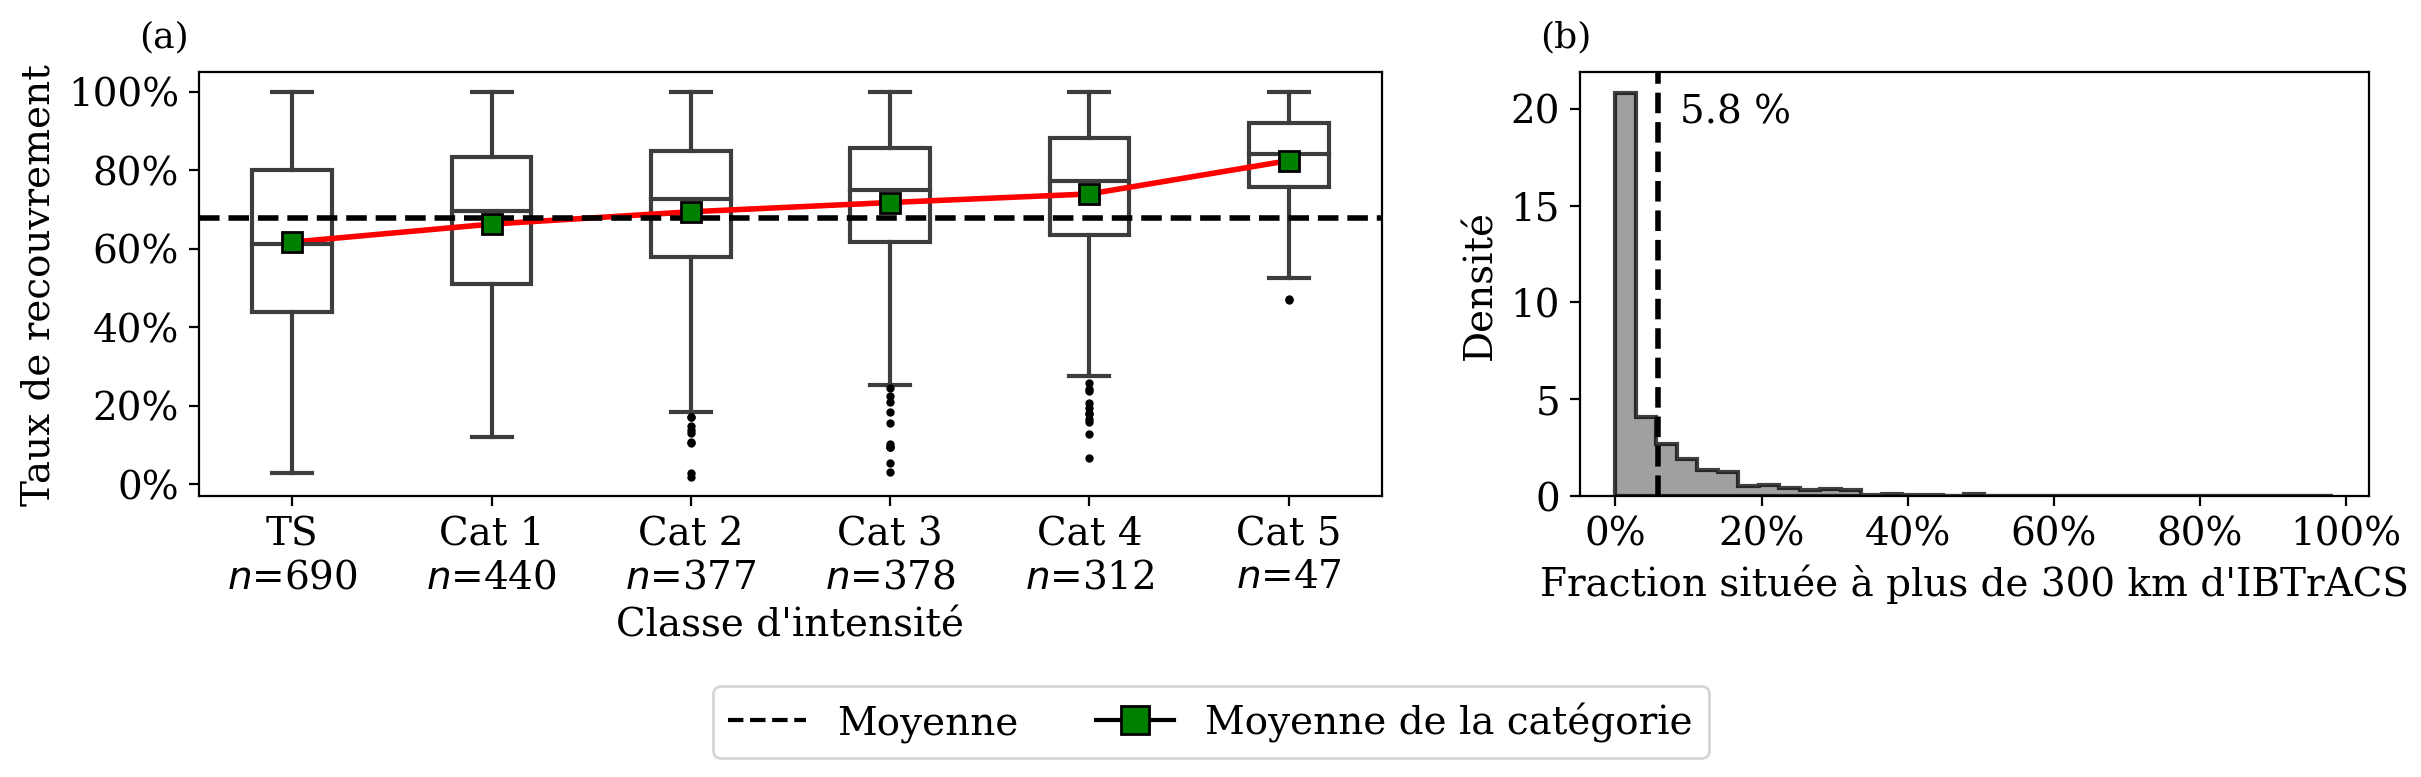
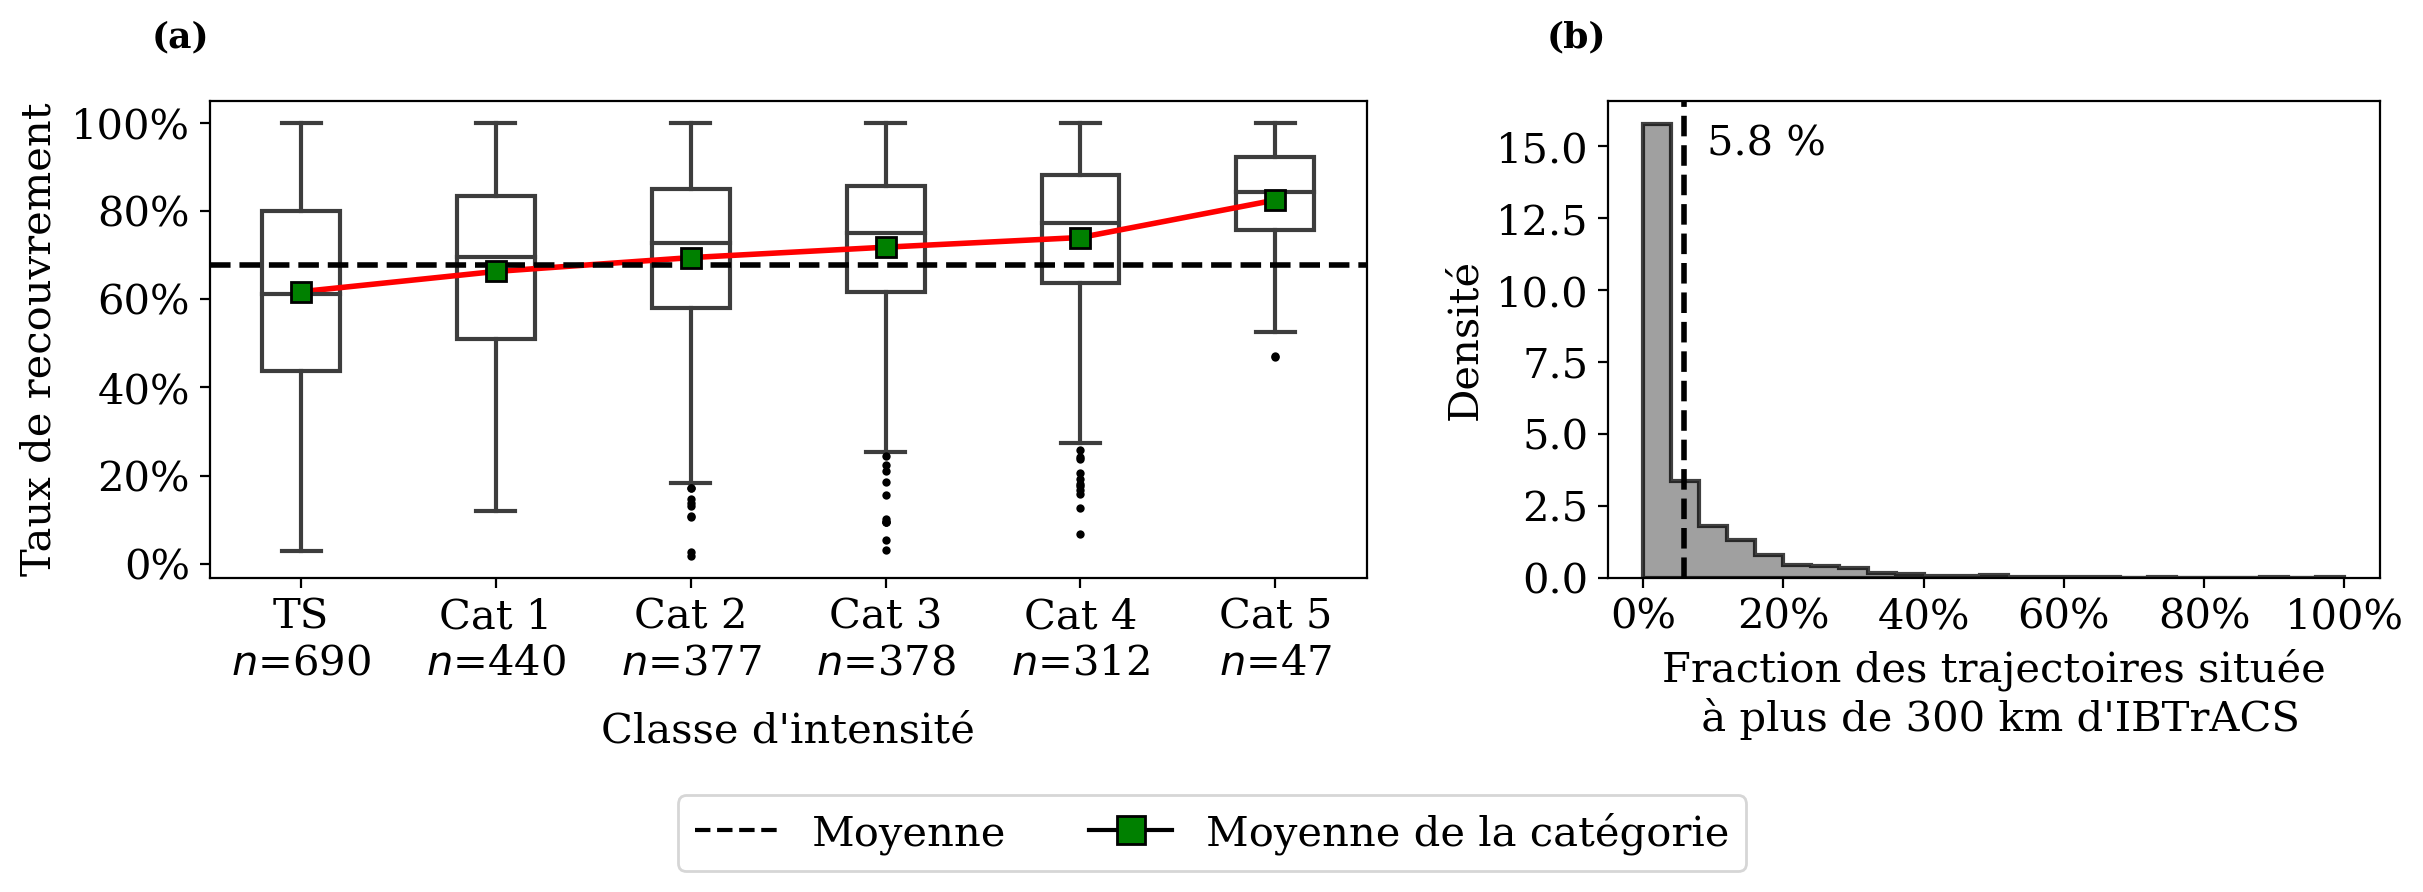
Avancement rédaction similarité

diff --git a/Chapitres/chapitre2.tex b/Chapitres/chapitre2.tex
@@ -147,34 +147,44 @@ trajectoires détectées dans la réanalyse et celles issues des observations.
 \begin{figure}[tb]
     \centering
     \includegraphics[width=\textwidth]{coverage_ratio_and_missed.png}
-    \caption{(a) Distributions des taux de recouvrement des trajectoires appariées entre ERA5 / IBTrACS pour chaque classe d'intensité des TC observés. (b)
-    Distribution de la fraction de points détectés situés à plus de \km{300} d'IBTrACS parmi les trajectoires appariés.}
+    \caption{\textbf{(a)} Distributions des taux de recouvrement des trajectoires appariées entre ERA5 / IBTrACS pour chaque classe d'intensité des TC observés.
+    \textbf{(b)} Histogramme de la fraction de points détectés situés à plus de \km{300} d'IBTrACS parmi les trajectoires appariés.}
     \label{fig:coverage_ratio}
 \end{figure}
 
-Dans cette section, trois métriques de similarité des trajectoires sont définies et comparées sur le jeu de données composé des trajectoires détectées dans la
-réanalyse ERA5 qui sont appariées à des trajectoires historiques IBTrACS ---~celui-là même utilisé dans \cite{dulac_assessing_2023}. En particulier, cette
-analyse vise à déterminer si le réglage des seuils de détection du traqueur de TC du CNRM dans le but de maximiser le POD ne risque pas de produire des
-trajectoires peu ressemblantes, du fait de la formulation de la condition nécessaire et suffisante à l'appariement de deux trajectoires. Leur utilisation comme
-possible métrique d'optimisation d'un schéma de détection est discutée.
+Il existe dans la littérature des algorithmes d'évaluation de la similarité de séries temporelles
+\parencite{faloutsos_fast_1994,das_finding_1997,frentzos_indexbased_2007}, mais ces derniers sont plutôt conçus pour des séries uni-dimensionnelles que pour des
+trajectoires spatiales car sont souvent basés sur la distance euclidienne qui les sépare. \cite{nakamura_shapebased_2013} proposent une approche basée plutôt
+sur la mesure de la similarité de la forme entre deux séries par l'analyse de l'angle formé par les séries, métrique nommée \textit{Angular Metric for Shape
+Similarity} (AMSS). Bien que leur approche soit pleinement capable de s'appliquer à des trajectoires spatiales, certaines propriétés de leur métrique ne sont
+pas pertinentes (voire pas souhaitables), dans le cas précis des trajectoires de cyclones tropicaux, telles qu'une forte résilience à un décalage temporel entre
+les deux séries (pas applicable à des trajectoires appariées entre réanalyse et observations), ainsi qu'une robustesse à des changements isolés de direction.
+Ces propriétés rendent par ailleurs leur algorithme très couteux en temps de calcul. Néanmoins, l'aspect novateur derrière les travaux de
+\cite{nakamura_shapebased_2013} est repris ici, à savoir la décomposition de la trajectoire en série de vecteurs, détaillée ci-après. Dans cette section, trois
+métriques de similarité des trajectoires sont définies et comparées sur le jeu de données issu de \cite{dulac_assessing_2023} et composé des trajectoires
+détectées dans la réanalyse ERA5 qui sont appariées à des trajectoires historiques IBTrACS. En particulier, cette analyse vise à déterminer si le réglage des
+seuils de détection du traqueur de TC du CNRM dans le but de maximiser le POD ne risque pas de produire des trajectoires peu ressemblantes, du fait de la
+formulation de la condition nécessaire et suffisante à l'appariement de deux trajectoires. Leur utilisation comme possible métrique d'optimisation d'un schéma
+de détection est discutée.
 
 \subsubsection*{La similarité angulaire}
 
-Une trajectoire de cyclone tropical est une série temporelle composée des positions successives du système et accompagnées de diverses informations permettant la
-caractérisation du système, telles que le vent maximum ou la pression centrale. Pour pouvoir évaluer la similarité entre deux trajectoires, on considère non pas
-les positions discrètes du système, mais la série de vecteurs décrivant le déplacement relatif entre chaque position successive.
+Une trajectoire de cyclone tropical est une série temporelle composée des positions successives du système et accompagnées de diverses informations permettant
+la caractérisation du système, telles que le vent maximum ou la pression centrale. Pour pouvoir évaluer la similarité entre deux trajectoires, on considère non
+pas les positions discrètes du système, mais plutôt la série de vecteurs décrivant le déplacement relatif entre chaque position successive.
 
-Soit $C$ une trajectoire de TC composée de $M+1$ pas de temps et définie par ses positions $p_{1...M+1}$ sur une grille géo-référencée et aux temps $t_{1...M+1}$ :
+Reprenant le formalise de \cite{nakamura_shapebased_2013} ; soit $C$ une trajectoire de TC composée de $M+1$ pas de temps et définie par ses positions
+$p_{1...M+1}$ sur une grille géo-référencée et aux temps $t_{1...M+1}$ :
 %
 \begin{align*}
-    C &= ((p_1, t_1), (p_2, t_2), ...\,, (p_{M+1}, t_{M+1}))\\
-      &= (c_1, c_2, ..., c_{M+1})
+    C &= ((p_1, t_1), (p_2, t_2), \ldots, (p_{M+1}, t_{M+1}))\\
+      &= (c_1, c_2, \ldots, c_{M+1})
 \end{align*}
 %
 Alors la série des vecteurs de déplacement équivalente $C_{\text{vec}}$ est donnée par :
 \begin{align*}
-    C_{vec} &= ((c_2 - c_1), (c_3 - c_2), ... \,, (c_{M+1} - c_M))\\
-            &= (\vec{c_1}, \vec{c_2}, ..., \vec{c_M})
+    C_{vec} &= ((c_2 - c_1), (c_3 - c_2), \ldots, (c_{M+1} - c_M))\\
+            &= (\vec{c_1}, \vec{c_2}, \ldots, \vec{c_M})
 \end{align*}
 %
 Soit $Q_{\text{vec}}$ la série des vecteurs de déplacements d'une seconde trajectoire composée de $N$ vecteurs. On définit la similarité cosinus $S_C$ entre
@@ -182,11 +192,34 @@ deux des vecteurs individuels $\vec{c}_i$ et $\vec{q}_j$ issus respectivement de
 temps $t$ par :
 %
 \begin{equation*}
-    S_C(\vec{c}_i, \vec{q}_j) := \cos \theta = \frac{\vec{c}_i \cdot \vec{q}_j}{\lVert \vec{c}_i \rVert \lVert \vec{q}_j \rVert} \in [-1; 1]
+    S_C(\vec{c}_i, \vec{q}_j) = \cos \theta = \frac{\vec{c}_i \cdot \vec{q}_j}{\lVert \vec{c}_i \rVert \lVert \vec{q}_j \rVert} \in [-1; 1] 
 \end{equation*}
 %
-Ainsi la similarité cosinus caractérise l'angle formé par les vecteurs de déplacement issus de deux trajectoires à un instant donné. Pour obtenir une valeur
-définie sur $[0; 1]$....
+Ainsi la similarité cosinus caractérise l'angle formé par les vecteurs de déplacement issus de deux trajectoires à un instant donné. On peut ensuite définir la
+distance angulaire, ou angle normalisé, qui est une distance formelle au sens où l'inégalité de Cauchy-Schwartz est respectée, par :
+%
+\begin{equation*}
+    D_\theta = \frac{\theta}{\pi}
+\end{equation*}
+%
+Et son complément, appelé similarité angulaire par :
+%
+\begin{equation*}
+    S_\theta = 1 - D_\theta = 1 - \frac{\theta}{\pi} \in [0; 1]
+\end{equation*}
+%
+C'est cette dernière distance $S_\theta$ qui est utilisée dans cette analyse. De cette façon, la plus faible similarité entre deux vecteurs est atteinte
+lorsqu'ils sont parallèles mais de sens opposés, tandis que la similarité est maximale si deux vecteurs parallèles sont de même sens.
+
+\subsubsection*{Métriques de similarité intégrée}
+
+Avant de détailler les trois métriques, il est important de distinguer trois membres dans un couple de trajectoires appariées. En effet, la similarité angulaire
+$S_\theta$ est définie ci-dessus pour deux vecteurs correspondants aux déplacements entre deux positions successives, pour deux trajectoires prises au même
+temps $t$. Or, il est admis qu'un des deux vecteurs peut ne pas exister à cet instant si le schéma de détection n'a pas capturé l'entièreté de la trajectoire
+ou au contraire si la trajectoire détectée est plus longue que celle observée. On appelle donc l'intersection des trajectoires $C \cap Q$ le sous-ensemble des
+pas de temps dans lequel les deux trajectoires co-existent. Réciproquement, l'union $C \cup Q$ contient l'ensemble des échéances des deux trajectoires. Enfin,
+la différence symétrique des deux trajectoires $C \ominus Q$ contient les pas de temps pour lesquels une seule trajectoire existe à la fois.
+
 
 %--------------------------------------
 \section{Synthèse}
